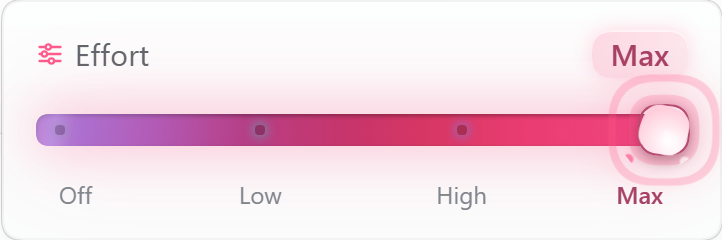
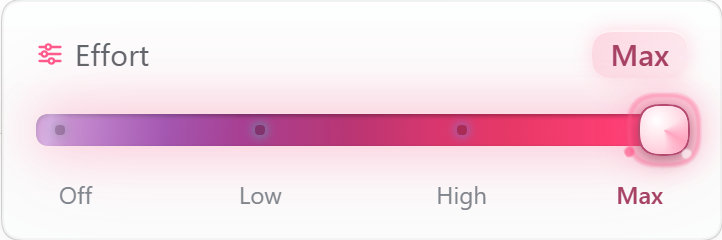
fix: Max thumb motion artifacts under host squircle corner-shape (v0.4.2)
The host sets corner-shape: superellipse(1.5), so 50% radii render as
squircles: rotating the core element made its corners wobble against the
static thumb frame, orbit dots sat on the clip edge and rendered as commas,
and the ring pulse grew to 2.2x beyond the halo. Core now keeps its shape
and spins a tinted conic light band via @property --dms-core-angle; spark
gradients move 2.5px inside the clip; ring pulse stays within the halo
range (scale 1 -> 1.32). GIF and gallery recaptured.

Changed region(s): [[0.8227, 0.2917, 1.0, 0.7875], [0.0305, 0.4667, 0.1219, 0.6125]]

diff --git a/src/client/styles.ts b/src/client/styles.ts
@@ -13,6 +13,7 @@ const MONO = 'var(--dsw-font-mono, ui-monospace, SFMono-Regular, Menlo, monospac
 /** The plugin's CSS, injected once while the client plugin is loaded. */
 export const MODEL_SWITCHER_CSS = `
 @property --dms-effort-pos { syntax: '<number>'; inherits: true; initial-value: 0; }
+@property --dms-core-angle { syntax: '<angle>'; inherits: false; initial-value: 0deg; }
 @keyframes dmsEffortValueIn {
   0% { opacity: 0; transform: translateY(3px) scale(.8); }
   60% { opacity: 1; transform: translateY(-1px) scale(1.06); }
@@ -57,13 +58,13 @@ export const MODEL_SWITCHER_CSS = `
   to { transform: rotate(360deg); }
 }
 @keyframes dmsMaxCoreSpin {
-  from { transform: rotate(0deg); }
-  to { transform: rotate(360deg); }
+  from { --dms-core-angle: 0deg; }
+  to { --dms-core-angle: 360deg; }
 }
 @keyframes dmsMaxRing {
-  0% { opacity: .8; transform: translate(-50%, -50%) scale(.5); }
-  70% { opacity: .25; }
-  100% { opacity: 0; transform: translate(-50%, -50%) scale(2.1); }
+  0% { opacity: .7; transform: translate(-50%, -50%) scale(1); }
+  70% { opacity: .22; }
+  100% { opacity: 0; transform: translate(-50%, -50%) scale(1.32); }
 }
 @keyframes dmsTickPop {
   0% { transform: translate(-50%, -50%) scale(1); }
@@ -330,16 +331,16 @@ export const MODEL_SWITCHER_CSS = `
 .${C.effortSlider}[data-max]:not([data-dragging]) .${C.effortThumb} { animation: dmsMaxHalo 1.6s ease-in-out infinite; }
 .${C.effortSlider}[data-max]:not([data-dragging]) .${C.effortThumb}::before {
   content: ''; position: absolute; inset: -7px; border-radius: 50%; pointer-events: none;
-  background: radial-gradient(circle at 50% 0%, rgba(255, 255, 255, .95) 0 2px, transparent 3px);
+  background: radial-gradient(circle at 50% 2.5px, rgba(255, 255, 255, .95) 0 2px, transparent 3px);
   animation: dmsMaxOrbit 1.8s linear infinite;
 }
 .${C.effortSlider}[data-max]:not([data-dragging]) .${C.effortThumb}::after {
   content: ''; position: absolute; inset: -11px; border-radius: 50%; pointer-events: none;
-  background: radial-gradient(circle at 50% 0%, var(--dms-tier, #FF5B8C) 0 2px, transparent 3px);
+  background: radial-gradient(circle at 50% 2.5px, var(--dms-tier, #FF5B8C) 0 2px, transparent 3px);
   animation: dmsMaxOrbit 2.6s linear infinite reverse;
 }
 .${C.effortSlider}[data-max]:not([data-dragging]) .${C.effortThumbCore} {
-  background: conic-gradient(from 0deg, transparent 0 68%, rgba(255, 255, 255, .55) 84%, transparent 100%), radial-gradient(circle at 35% 30%, #FFFFFF, color-mix(in srgb, var(--dms-tier, #5B8CFF) 30%, #FFFFFF) 72%);
+  background: conic-gradient(from var(--dms-core-angle, 0deg), transparent 0 62%, color-mix(in srgb, var(--dms-tier, #FF5B8C) 55%, #FFFFFF) 80%, transparent 96%), radial-gradient(circle at 35% 30%, #FFFFFF, color-mix(in srgb, var(--dms-tier, #5B8CFF) 30%, #FFFFFF) 72%);
   animation: dmsMaxCoreSpin 2.4s linear infinite;
 }
 .${C.effortSlider}[data-max] .${C.effortBurst} { animation: dmsMaxRing 1.8s cubic-bezier(.2, .7, .3, 1) infinite; }

diff --git a/README.md b/README.md
@@ -99,7 +99,7 @@ Desktop app: open **Plugins** and install by GitHub spec
 
 Prebuilt tarball (skips the build-approval step): download
 `dsh-model-switcher-pro.tgz` from the
-[v0.4.1 Release](https://github.com/ZSQS88/dsh-model-switcher-pro/releases/latest),
+[v0.4.2 Release](https://github.com/ZSQS88/dsh-model-switcher-pro/releases/latest),
 then:
 
 ```sh
